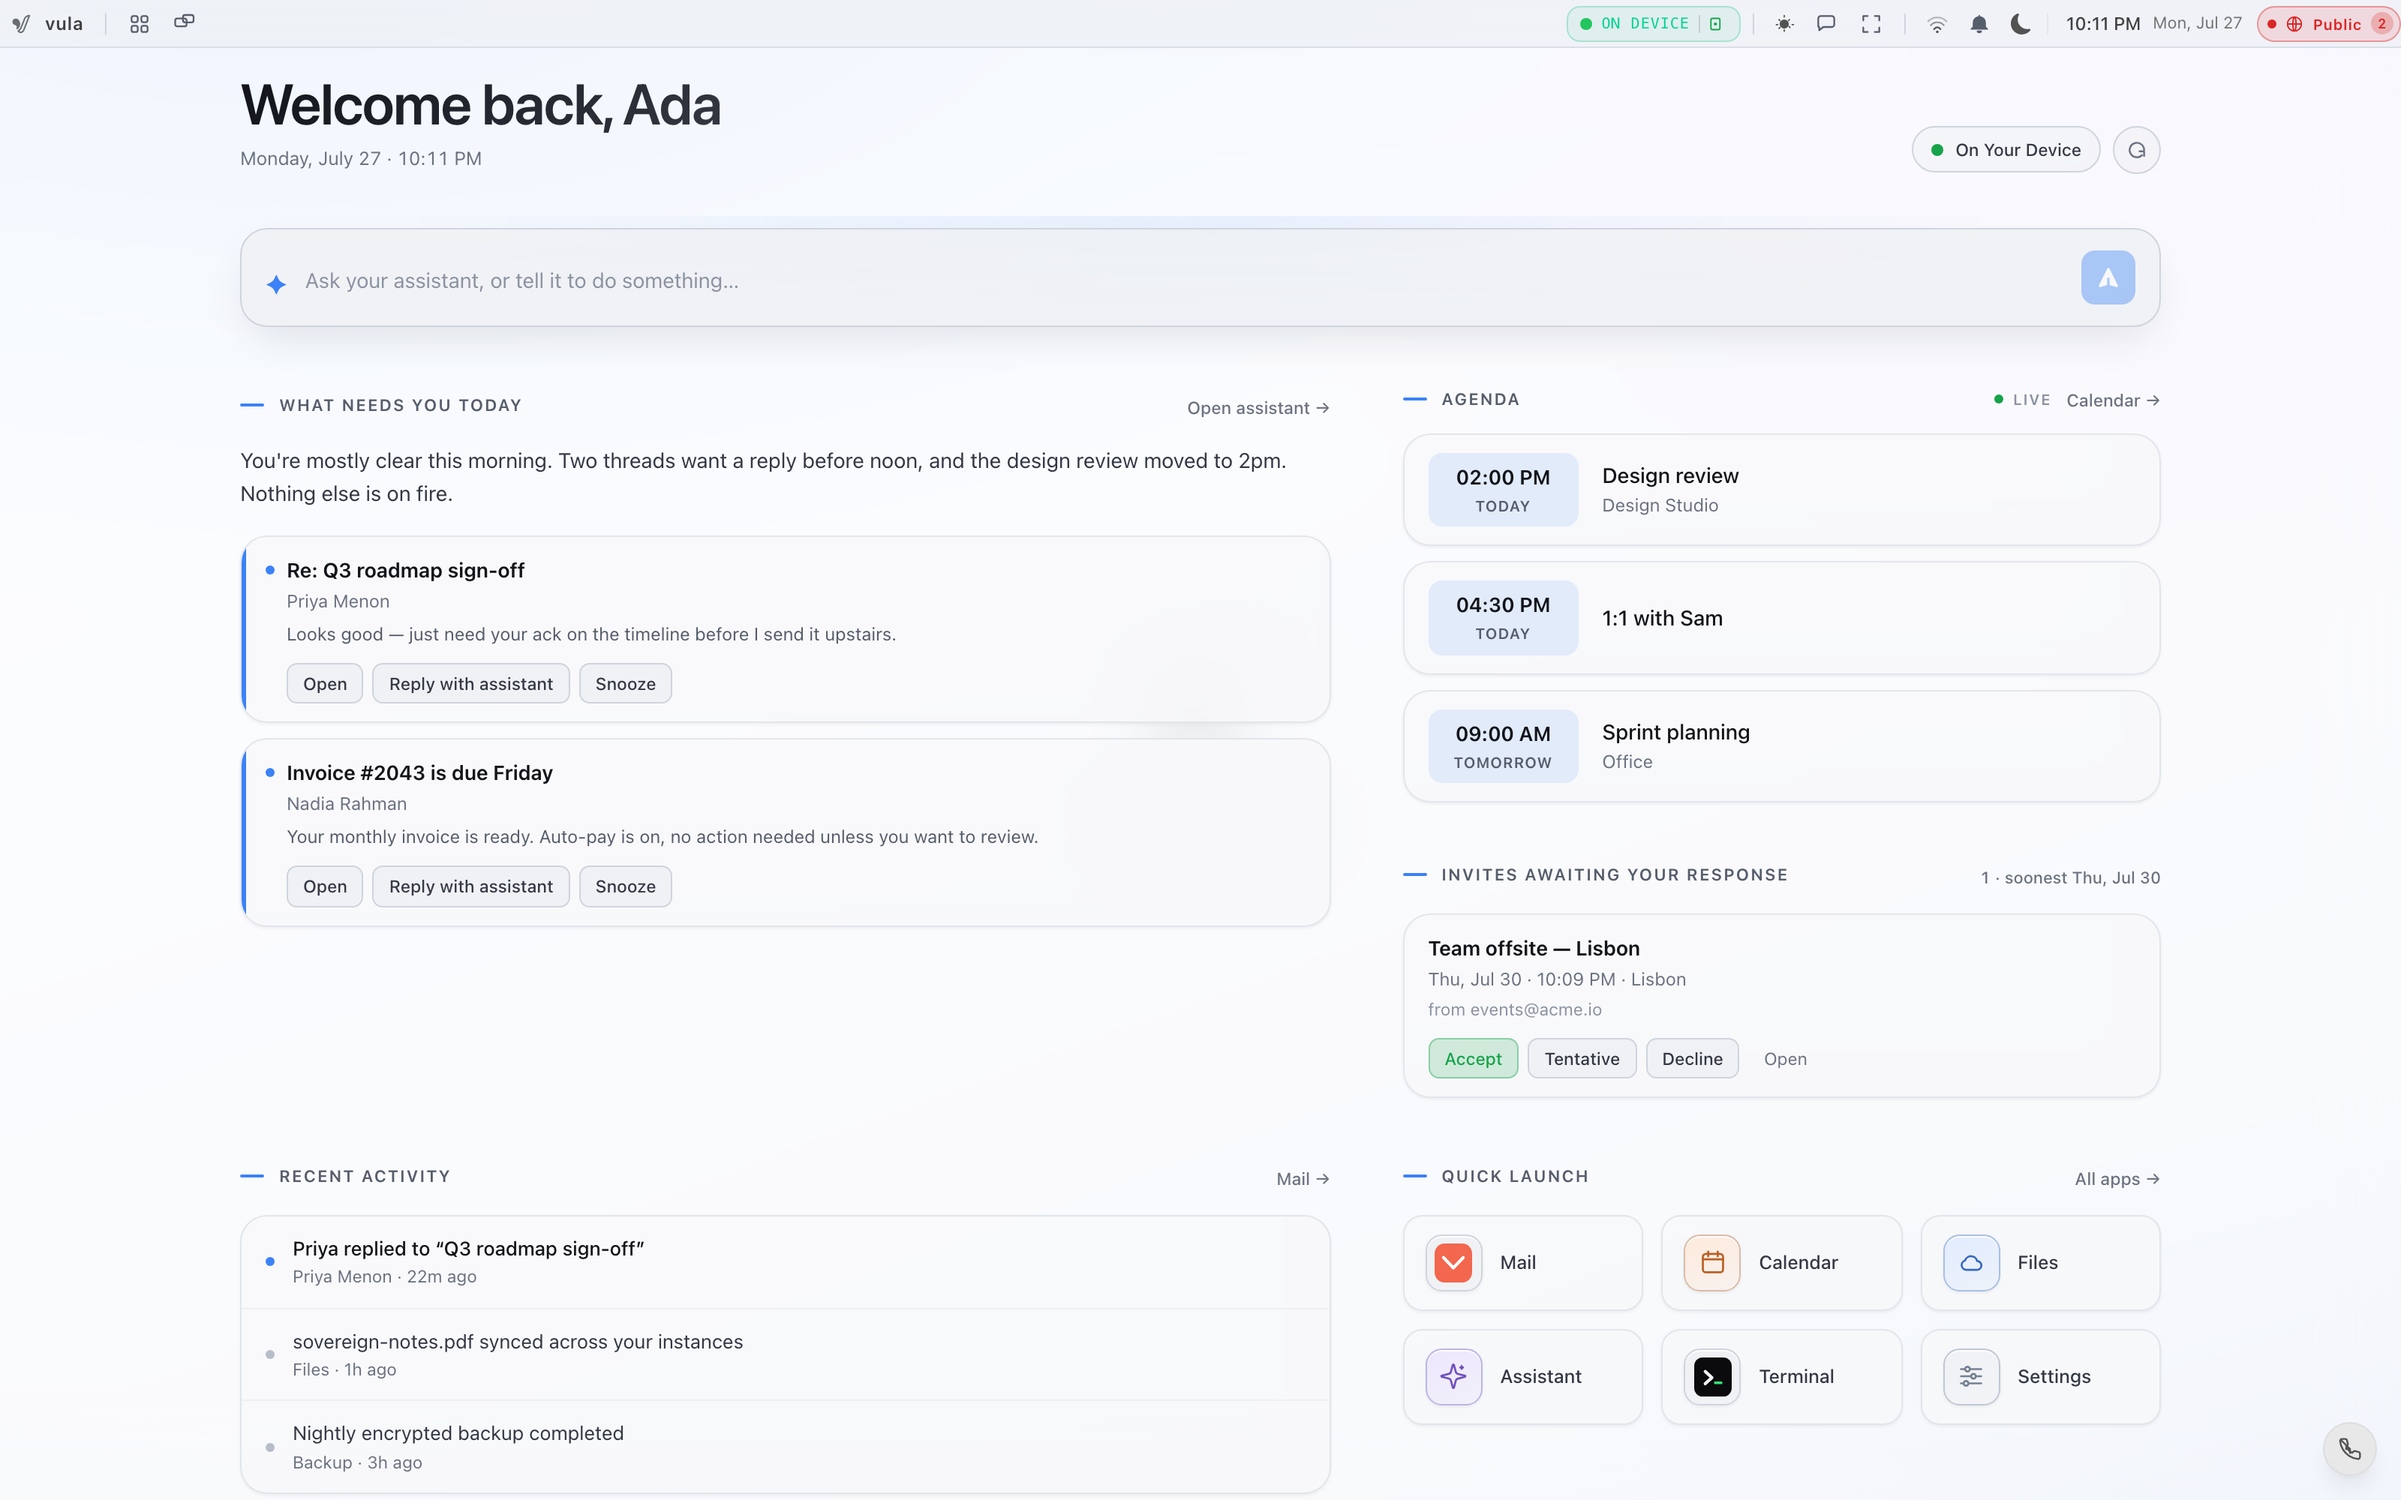
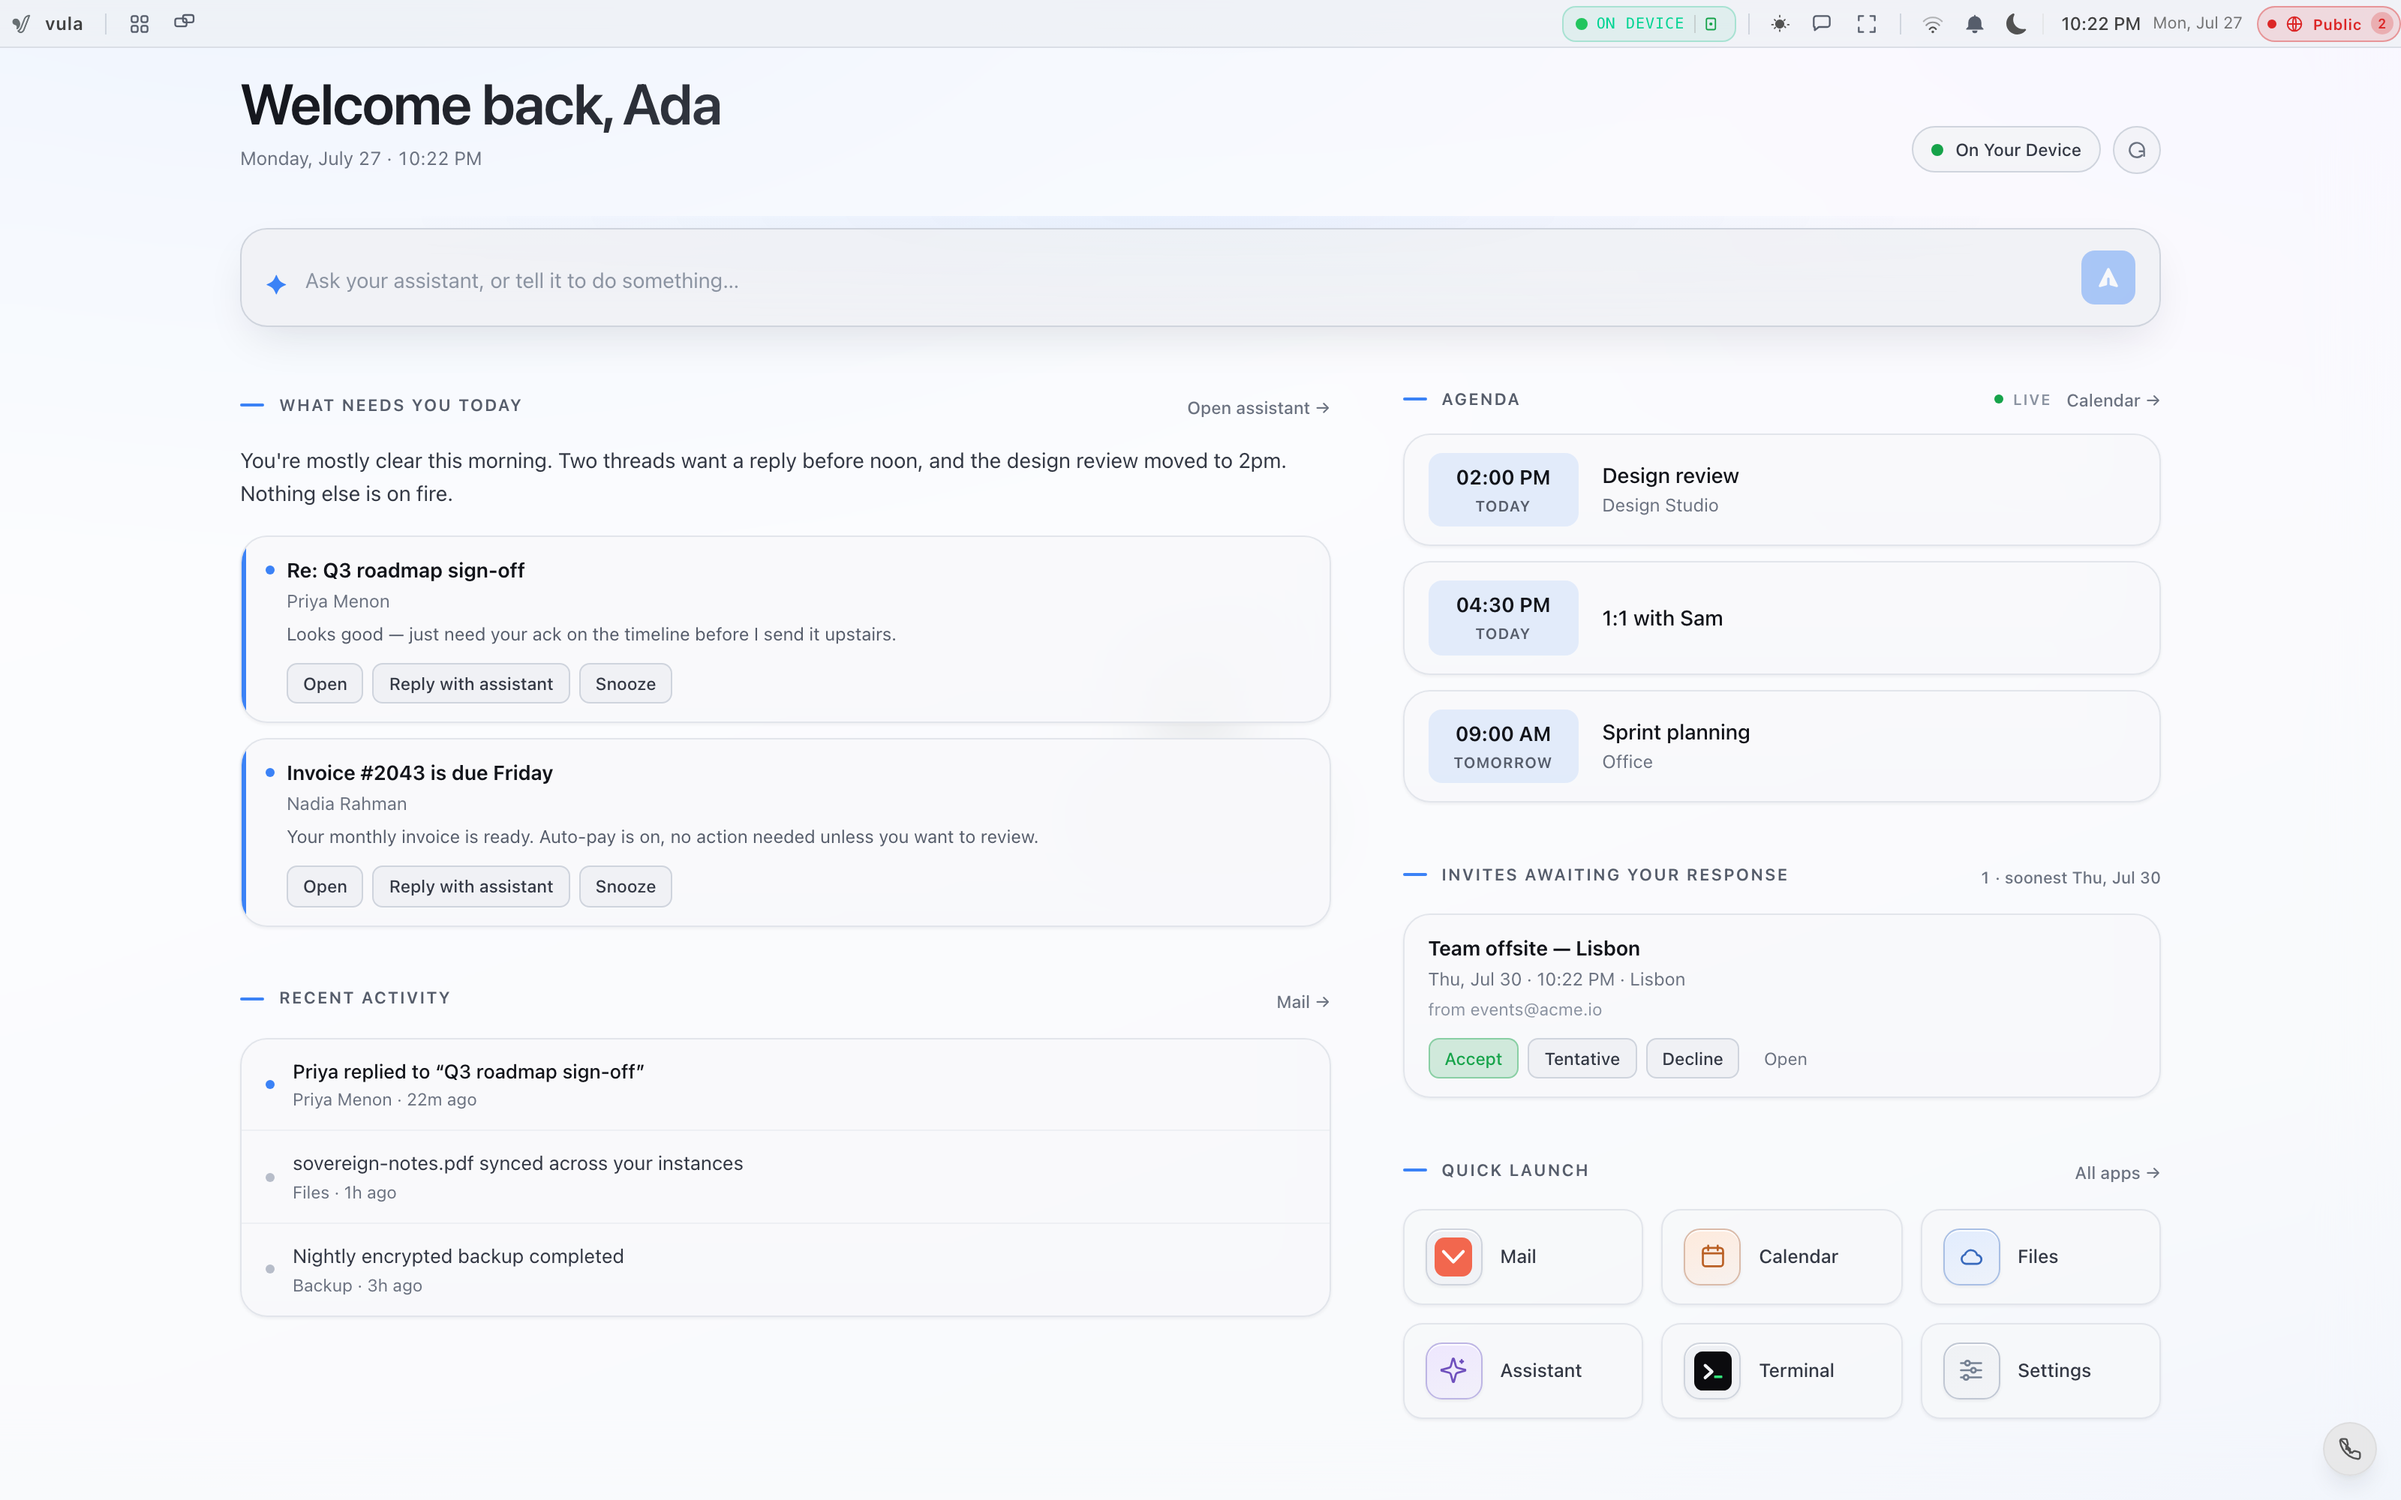
home: continuous two-column flow — no gap between 'What needs you today' and 'Recent activity'
The bento was two separate grid rows, so the short left column stretched to the
tall right column and left a gap before Recent Activity. Merge into one grid with
two continuous columns (brief+activity left; agenda/invites/reminders/quick-launch
right) so each flows naturally with no cross-row gap.

diff --git a/src/shell/home/Home.jsx b/src/shell/home/Home.jsx
@@ -639,26 +639,20 @@ export default function Home() {
           )}
         </div>
 
-        {/* Bento split — the assistant brief + focus items lead; the day's
-            schedule (agenda / invites / reminders) stacks alongside. Collapses to
-            one column below lg. */}
-        <div className="grid gap-x-12 gap-y-9 lg:grid-cols-12">
-          <div className="lg:col-span-7 min-w-0">
+        {/* Bento split — two continuous columns so each flows naturally with no
+            cross-row gap: the left column runs the assistant brief + focus items
+            straight into recent activity; the right column runs the day's
+            schedule (agenda / invites / reminders) into quick launch. Collapses
+            to one column below lg. */}
+        <div className="grid gap-x-12 gap-y-9 lg:grid-cols-12 lg:items-start">
+          <div className="lg:col-span-7 min-w-0 space-y-9">
             {briefSection}
+            {activitySection}
           </div>
           <div className="lg:col-span-5 min-w-0 space-y-9">
             {agendaSection}
             {invitesSection}
             {remindersSection}
-          </div>
-        </div>
-
-        {/* Lower row — recent activity + quick launch anchor the canvas. */}
-        <div className="mt-10 grid gap-x-12 gap-y-9 lg:grid-cols-12">
-          <div className="lg:col-span-7 min-w-0">
-            {activitySection}
-          </div>
-          <div className="lg:col-span-5 min-w-0">
             {quickLaunchSection}
           </div>
         </div>
